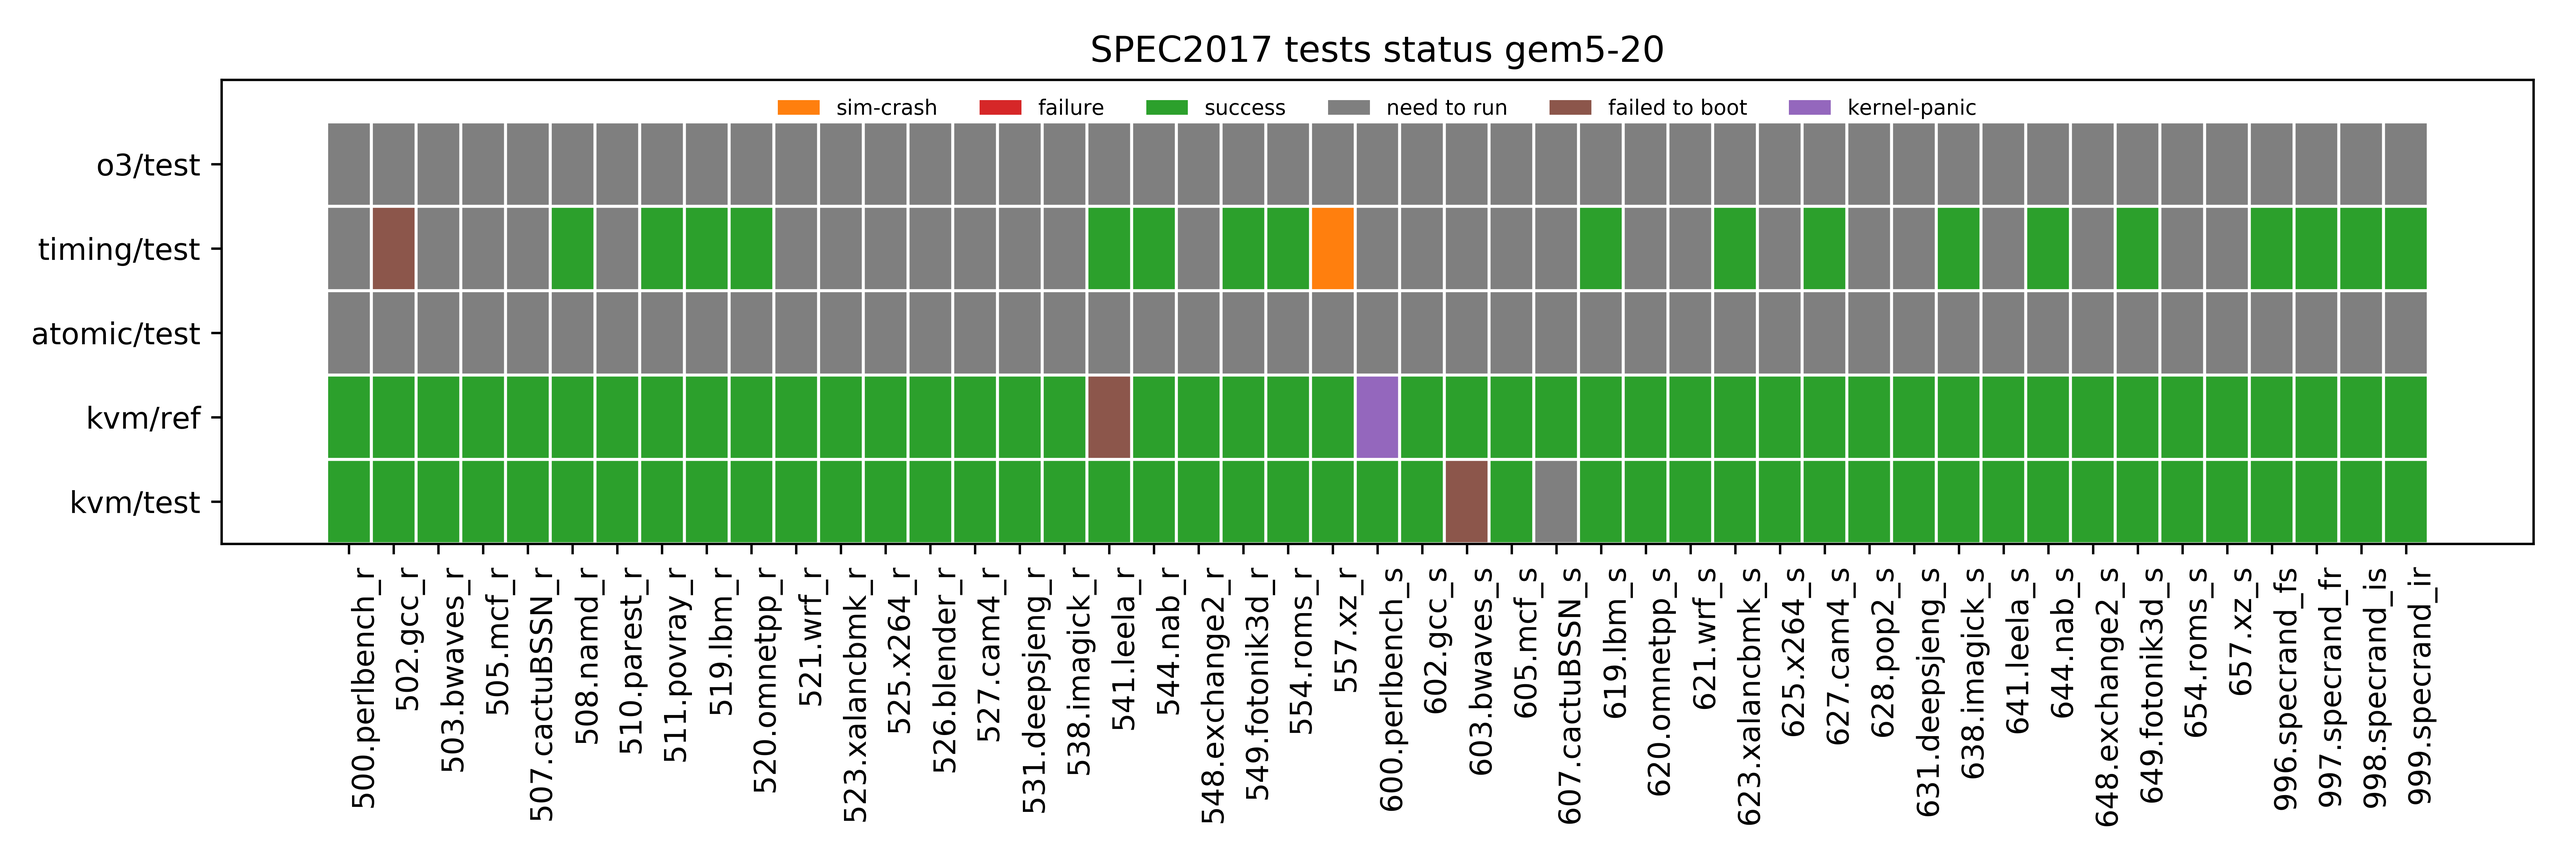
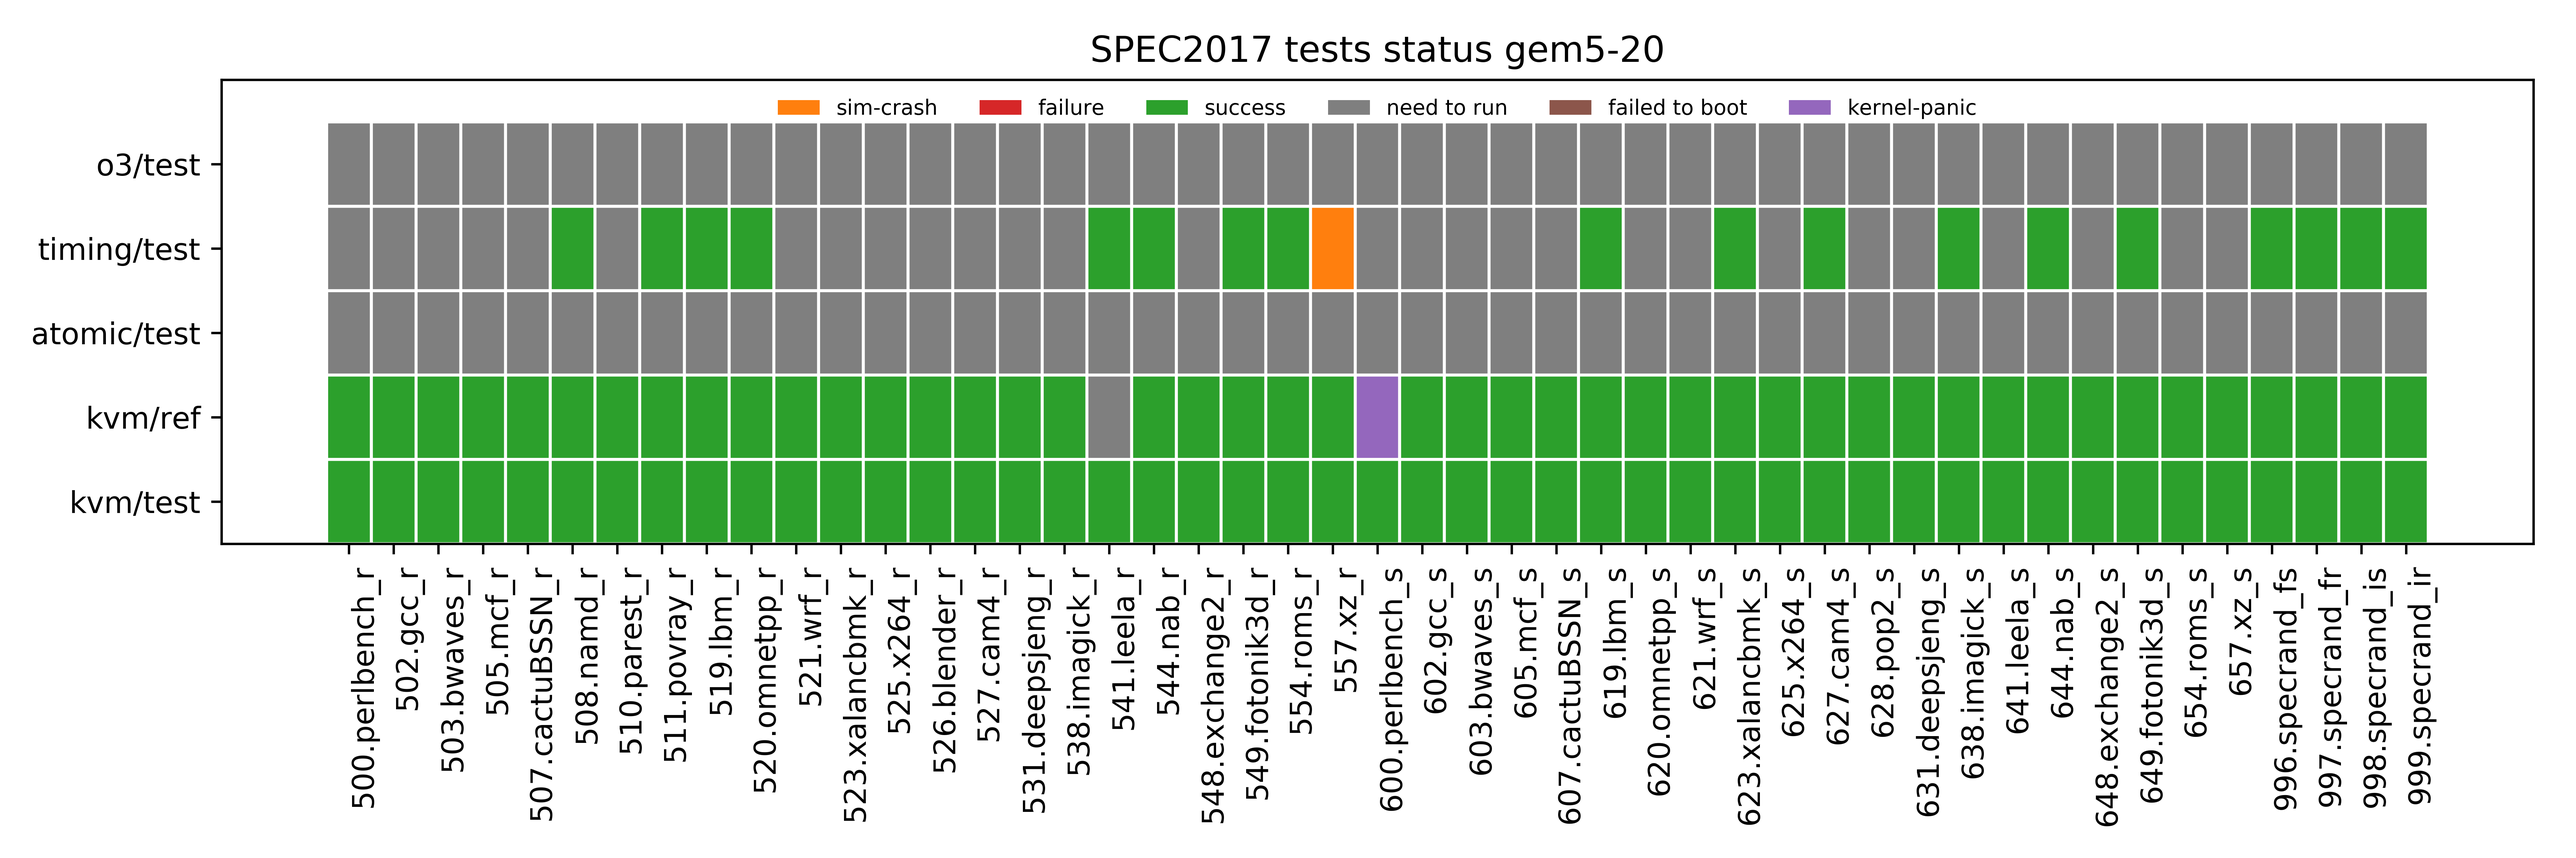
update SPEC

Changed region(s): [[0.5625, 0.5312, 0.625, 0.6562], [0.125, 0.25, 0.1875, 0.3438], [0.4062, 0.4375, 0.4375, 0.5312]]

diff --git a/others/status-plots.md b/others/status-plots.md
@@ -22,17 +22,18 @@ There is no reason apparent in the generated results files (`simout`, `simerr`, 
 
 # SPEC 2006 Tests
 
-The following plot represent the status of SPEC2006 workloads for different CPUs and data sizes with respect to gem5-20 and linux kernel version 4.19.83
+The following plot represent the status of SPEC2006 workloads for different CPUs and data sizes with respect to gem5-20, linux kernel version 4.19.83 and gcc version 7.5.0.
 
 ![SPEC-2006 status fro gem5-20 ](status-plots/spec2006_gem5-20_status.png)
 
-* Few workloads, [_400.perlbench_, _447.dealII_, _450.soplex_, _483.xalancbmk_] had build errors
-* _434.zeusmp_ had crashed in the previous gem5 version as well
+* Few workloads, [**400.perlbench**, **447.dealII**, **450.soplex**, **483.xalancbmk**] had build errors
+* **434.zeusmp** had crashed in gem5-19 as well due a segmentation fault.
+* **453.povray** needs a rerun and the test with gem5-19 was a success. 
 
 # SPEC 2017 Tests
 
-The following plot represent the status of SPEC2017 workloads with respect to gem5-20 and linux kernel version 4.19.83.
-
-* [SPEC-2017 status fro gem5-19 ](https://gem5art.readthedocs.io/en/latest/tutorials/spec2017-tutorial.html#appendix-i-working-spec-2017-benchmarks-x-cpu-model-matrix)
+The following plot represent the status of SPEC2017 workloads with respect to gem5-20, linux kernel version 4.19.83 and gcc version 7.5.0.
 
 ![SPEC-2017 status fro gem5-20 ](status-plots/spec2017_gem5-20_status.png)
+
+* **600.perlbench_s** kernel panic while booting, couldn't find a reason.
